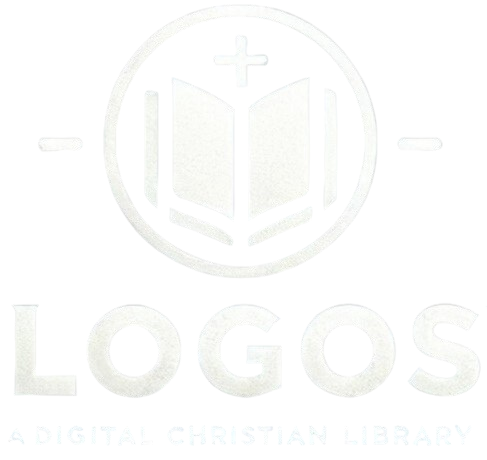
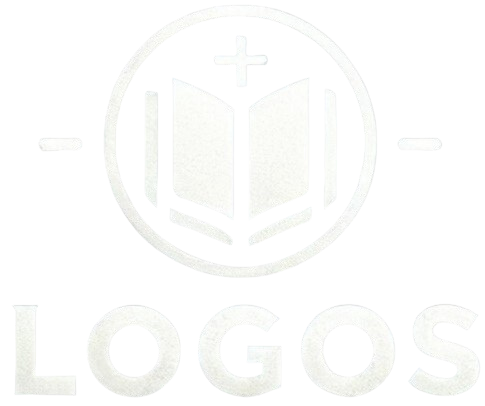
ajustes87

diff --git a/Netflix-clone/src/components/fm.js b/Netflix-clone/src/components/fm.js
@@ -11,13 +11,11 @@ const Fm = ({ item }) => {
         }}>
             <div className="vertical--fade">
                 <div className="horizontal--fade">
-                    <div className="title">Logos: Biblioteca Cristã Digital</div>
+                    <div className="title">Biblioteca Cristã Digital</div>
                     <div className="info">
-                        <div className="seasons">Livros cristãos</div>
-                        <div className='ano'>Conteúdo Sempre Atualizado</div>
                     </div>
                     <div className='description'>
-                        Compartilhando alguns materiais pessoais pra edificação!
+                        Bem-vindo à minha coleção pessoal de livros, Compartilhando para juntos nos edificarmos!
                     </div>
                     <div className='buttons'>
                         <button onClick={() => window.location.href = 'explorar'} className="playBtn">► Explorar</button>

diff --git a/Netflix-clone/src/App.js b/Netflix-clone/src/App.js
@@ -72,7 +72,6 @@ const App = () => {
                                     Desenvolvido por Phillipe Linhares<br />
                                     GitHub: https://github.com/phillipe77<br />
                                     Direito de imagem para Netflix<br />
-                                    Dados dos livros retirados da API Local
                                 </footer>
                                 {bookList.length <= 0 && (
                                     <div className="loading">

diff --git a/Netflix-clone/src/components/Header.css b/Netflix-clone/src/components/Header.css
@@ -19,7 +19,7 @@ header {
 }
 
 .logo{
-    height: 70px;
+    height: 60px;
 
 
 }
